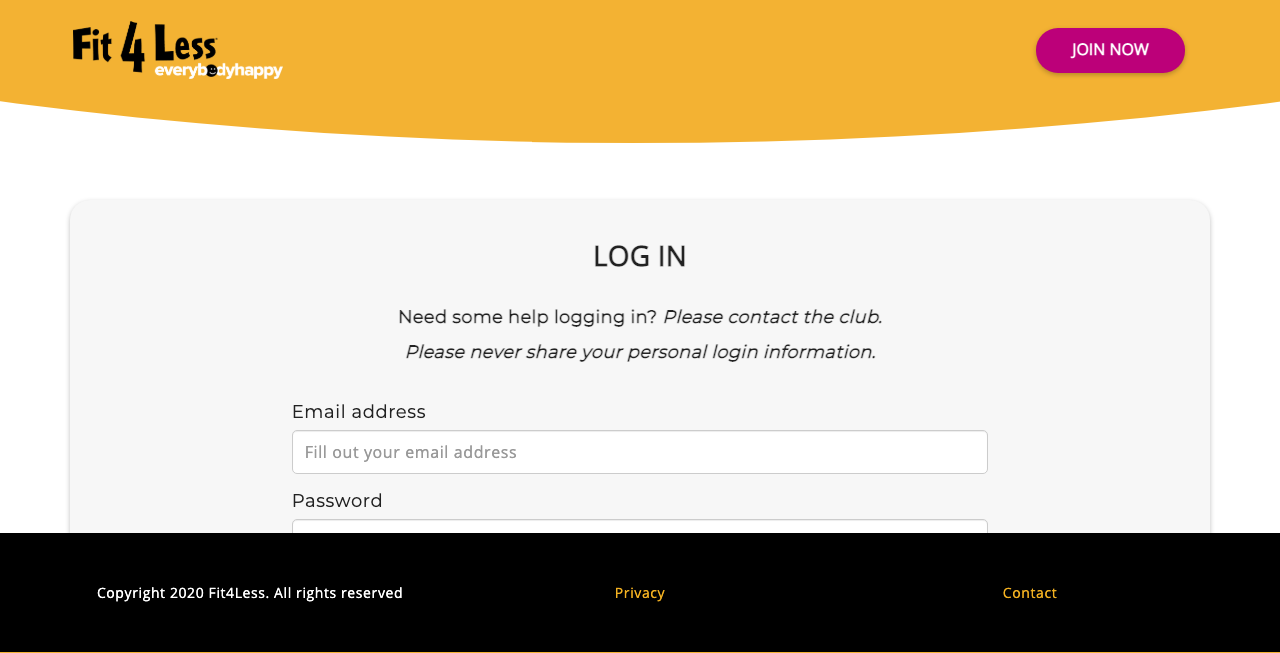
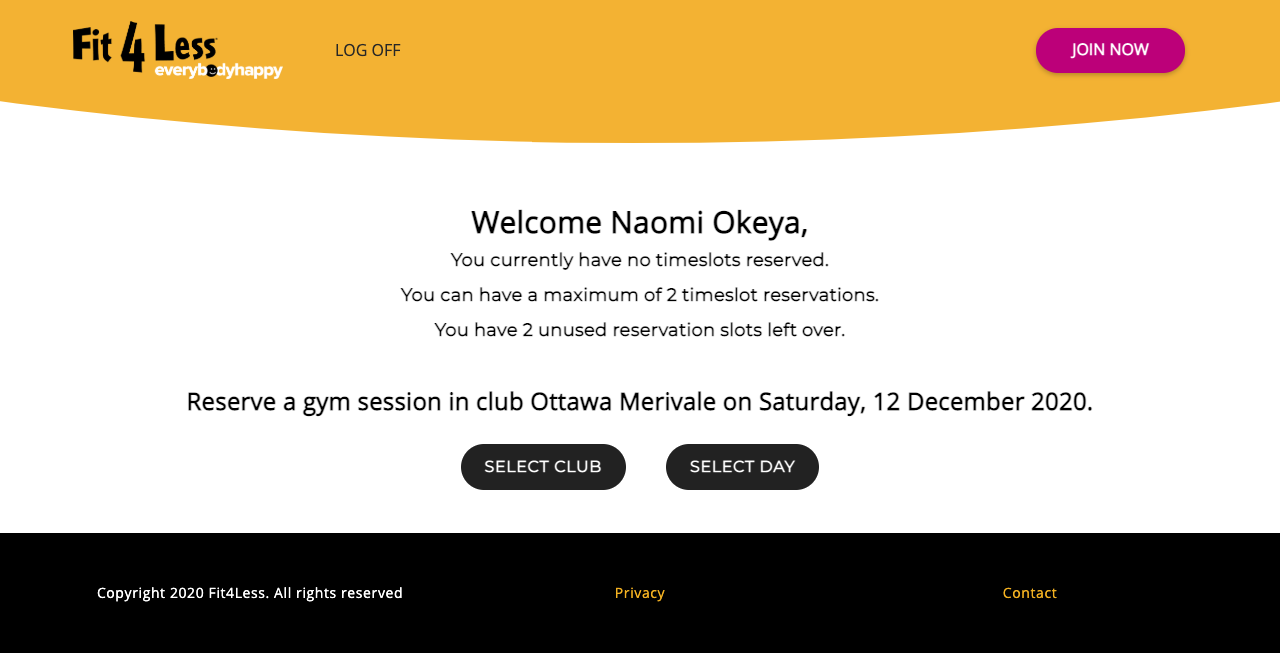
changes

diff --git a/src/crawler/crawler.service.ts b/src/crawler/crawler.service.ts
@@ -3,6 +3,7 @@ import * as puppeteer from 'puppeteer';
 
 @Injectable()
 export class CrawlerService {
+  public static SECONDS_DELAY = 1500;
   private async delay(time) {
     return new Promise(function (resolve) {
       setTimeout(resolve, time);
@@ -12,6 +13,7 @@ export class CrawlerService {
   public async start(): Promise<any> {
     const browser = await puppeteer.launch({ headless: false });
     const page = await browser.newPage();
+
     const email = process.env.EMAIL_ADDRESS;
     const password = process.env.PASSWORD;
 
@@ -19,12 +21,10 @@ export class CrawlerService {
     const passwordInput = '#API > #block_fields #password';
 
     await page.goto('https://myfit4less.gymmanager.com/portal/login.asp');
-
     await page.setViewport({ width: 1280, height: 653 });
-
     await page.waitForSelector(emailInput);
-    await page.type(emailInput, email);
 
+    await page.type(emailInput, email);
     await page.waitForSelector(passwordInput);
     await page.type(passwordInput, password);
 
@@ -32,15 +32,18 @@ export class CrawlerService {
       '.login-box > #API > #block_buttons #loginButton',
     );
     await page.click('.login-box > #API > #block_buttons #loginButton');
-
+    await this.delay(CrawlerService.SECONDS_DELAY);
+    await page.screenshot({ path: 'screenshot.png' });
     // evaluate will run the function in the page context
-    await page.evaluate((context) => this.executeScript(context));
-
+    await page.evaluate(this.executeScript);
     await browser.close();
-    return 'Complete!!';
+    return {
+      msg: 'Fit4less session was sucessfully booked',
+      status: 200,
+    };
   }
 
-  private executeScript(context) {
-    console.log(console.log(context));
+  private executeScript() {
+    console.log('here!!');
   }
 }

diff --git a/src/main.ts b/src/main.ts
@@ -4,7 +4,7 @@ import { GlobalExceptionFilter } from '@dollarsign/nestjs-exceptions';
 import { SwaggerModule, DocumentBuilder } from '@nestjs/swagger';
 
 async function bootstrap() {
-  const appOptions = { cors: true, logger: true, bodyParser: true };
+  const appOptions = { cors: true, bodyParser: true };
   const app = await NestFactory.create(AppModule, appOptions);
   app.setGlobalPrefix('api/v1');
   app.useGlobalFilters(new GlobalExceptionFilter());
